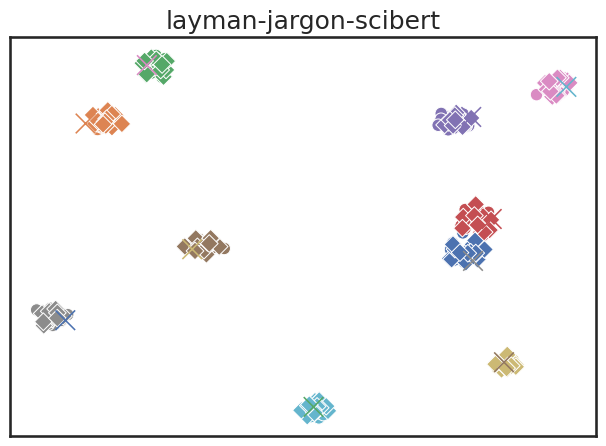
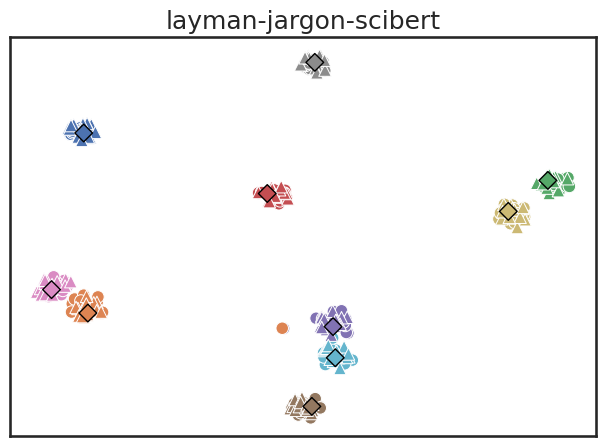
Improve tsne

diff --git a/plot-tsne-embeddings.py b/plot-tsne-embeddings.py
@@ -76,7 +76,7 @@ def parse_args():
         help="HF dataset split",
     )
     p.add_argument(
-        "--num-docs-plot",
+        "--num-docs",
         type=int,
         default=10,
         help="Number of documents whose keywords to plot",
@@ -111,7 +111,7 @@ if __name__ == "__main__":
 
     # Filter to documents we want to plot BEFORE encoding
     ids = list(set(df["id"]))
-    ids_to_plot = ids[:int(args.num_docs_plot)]
+    ids_to_plot = ids[:int(args.num_docs)]
     
     df_filtered = df[df["id"].isin(ids_to_plot)]
     ds_df_filtered = ds_df[ds_df["doc_id"].isin(ids_to_plot)]
@@ -121,11 +121,11 @@ if __name__ == "__main__":
     jargon_embeddings = model.encode(df_filtered["jargon"].to_list())
     layman_embeddings = model.encode(df_filtered["layman"].to_list())
     
-    # Encode titles for filtered documents only
-    title_embeddings = model.encode(ds_df_filtered["title"].to_list())
+    # Encode abstracts for filtered documents only
+    abstract_embeddings = model.encode(ds_df_filtered["abstract"].to_list())
 
     # Combine all embeddings for consistent dimensionality reduction
-    all_embeddings = np.vstack([jargon_embeddings, layman_embeddings, title_embeddings])
+    all_embeddings = np.vstack([jargon_embeddings, layman_embeddings, abstract_embeddings])
     
     # First reducing to 50 components using PCA
     # before running through t-SNE, as per docs.
@@ -135,7 +135,7 @@ if __name__ == "__main__":
     # Split back into separate arrays
     jargon_pca = all_pca[:len(jargon_embeddings)]
     layman_pca = all_pca[len(jargon_embeddings):len(jargon_embeddings)+len(layman_embeddings)]
-    title_pca = all_pca[len(jargon_embeddings)+len(layman_embeddings):]
+    abstract_pca = all_pca[len(jargon_embeddings)+len(layman_embeddings):]
 
     tsne = TSNE(random_state=0)
     all_tsne = tsne.fit_transform(all_pca)
@@ -143,7 +143,7 @@ if __name__ == "__main__":
     # Split back into separate arrays
     jargon_tsne = all_tsne[:len(jargon_embeddings)]
     layman_tsne = all_tsne[len(jargon_embeddings):len(jargon_embeddings)+len(layman_embeddings)]
-    title_tsne = all_tsne[len(jargon_embeddings)+len(layman_embeddings):]
+    abstract_tsne = all_tsne[len(jargon_embeddings)+len(layman_embeddings):]
 
     df_filtered["jargon_tsne_component_0"] = jargon_tsne[:, 0]
     df_filtered["jargon_tsne_component_1"] = jargon_tsne[:, 1]
@@ -151,12 +151,18 @@ if __name__ == "__main__":
     df_filtered["layman_tsne_component_0"] = layman_tsne[:, 0]
     df_filtered["layman_tsne_component_1"] = layman_tsne[:, 1]
     
-    # Create a dataframe for titles
-    title_df_to_plot = ds_df_filtered.copy()
-    title_df_to_plot["title_tsne_component_0"] = title_tsne[:, 0]
-    title_df_to_plot["title_tsne_component_1"] = title_tsne[:, 1]
+    # Create a dataframe for abstracts
+    abstract_df_to_plot = ds_df_filtered.copy()
+    abstract_df_to_plot["id"] = abstract_df_to_plot["doc_id"]
+    abstract_df_to_plot["abstract_tsne_component_0"] = abstract_tsne[:, 0]
+    abstract_df_to_plot["abstract_tsne_component_1"] = abstract_tsne[:, 1]
 
     df_to_plot = df_filtered
+    
+    # Ensure id column is the same type and categorical in both dataframes
+    id_categories = sorted(df_to_plot["id"].unique())
+    df_to_plot["id"] = pd.Categorical(df_to_plot["id"], categories=id_categories)
+    abstract_df_to_plot["id"] = pd.Categorical(abstract_df_to_plot["id"], categories=id_categories)
 
     sns.set_theme(
         context="talk",
@@ -177,16 +183,17 @@ if __name__ == "__main__":
         y="layman_tsne_component_1",
         hue="id",
         legend=False,
-        marker="D"
+        marker="^"
     )
     sns.scatterplot(
-        data=title_df_to_plot,
-        x="title_tsne_component_0",
-        y="title_tsne_component_1",
-        hue="doc_id",
+        data=abstract_df_to_plot,
+        x="abstract_tsne_component_0",
+        y="abstract_tsne_component_1",
+        hue="id",
         legend=False,
-        marker="x",
-        s=200
+        marker="D",
+        linewidths=1,
+        edgecolor="black"
     )
     plt.xlabel("")
     plt.ylabel("")
